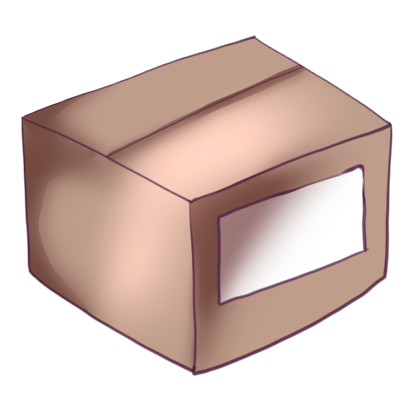
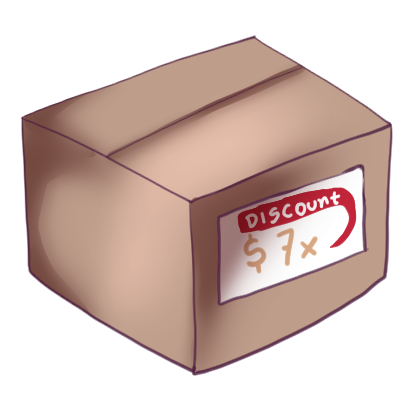
Pequenos Ajustes

Changed region(s): [[0.57, 0.45, 0.9, 0.69], [0.36, 0.27, 0.66, 0.51], [0.33, 0.6, 0.36, 0.66]]

diff --git a/scripts/estatuas/index.html b/scripts/estatuas/index.html
@@ -18,11 +18,11 @@
     <span class="close-btn" onclick="closeModal()">×</span>
 
     <div class="container" id="container">
-      <div class="item" draggable="true" data-value="3"><img src="/assets/img/statue1.png" alt=""></div>
-      <div class="item" draggable="true" data-value="1"><img src="/assets/img/statue2.png" alt=""></div>
+      <div class="item" draggable="true" data-value="5"><img src="/assets/img/statue1.png" alt=""></div>
+      <div class="item" draggable="true" data-value="3"><img src="/assets/img/statue2.png" alt=""></div>
       <div class="item" draggable="true" data-value="4"><img src="/assets/img/statue3.png" alt=""></div>
-      <div class="item" draggable="true" data-value="2"><img src="/assets/img/statue4.png" alt=""></div>
-      <div class="item" draggable="true" data-value="5"><img src="/assets/img/statue5.png" alt=""></div>
+      <div class="item" draggable="true" data-value="1"><img src="/assets/img/statue4.png" alt=""></div>
+      <div class="item" draggable="true" data-value="2"><img src="/assets/img/statue5.png" alt=""></div>
     </div>
 
   </div>

diff --git a/Cenarios/market/index.html b/Cenarios/market/index.html
@@ -4,6 +4,7 @@
         <meta charset="UTF-8">
         <meta name="viewport" content="width=device-width, initial-scale=1.0">
         <title>Document</title>
+        <link rel="stylesheet" href="/core/global.css">
         <link rel="stylesheet" href="/core/menu_interativo/style.css">
         <link rel="stylesheet" href="style.css">
     </head>

diff --git a/Cenarios/market/script.js b/Cenarios/market/script.js
@@ -33,7 +33,7 @@ function tremerBox() {
   }
 
   // intervalo aleatório entre 3 e 10 segundos
-  const proximo = Math.floor(Math.random() * 7000) + 3000;
+  const proximo = Math.floor(Math.random() * 7000) + 5000;
 
   setTimeout(tremerBox, proximo);
 }

diff --git a/Core/global.css b/Core/global.css
@@ -149,6 +149,8 @@ nav a {
   font-size: 0.98rem;
 }
 
+
+
 /* ===================== */
 /* MEDIA QUERIES GLOBAIS */
 /* ===================== */
@@ -262,3 +264,4 @@ nav a {
   white-space: nowrap;
   border: 0;
 }
+

diff --git a/Cenarios/bar/index.html b/Cenarios/bar/index.html
@@ -128,6 +128,7 @@
 </div>
 
 
+
 <script src="/loader.js"></script>    
 </body>
 </html>

diff --git a/MEMO.md b/MEMO.md
@@ -16,8 +16,8 @@ e anotar no README MAIN também.
 - Achar bebês cobras {
     1 - Invisivel (Usar Lua)
     2 - Congelado (usar Sol)
-    3 - Dentro de um Baú no shop (Clicar 7x)
-    ~~4 - Aparece no Bar aleatóriamente~~
+    3 - ~~Dentro de um Baú no shop (Clicar 7x)~~
+    4 - ~~Aparece no Bar aleatóriamente~~
     5 - Presa com Wendigo
     6 - Quest no fundo do lago
 }
@@ -51,9 +51,9 @@ e anotar no README MAIN também.
 - ~~Procurar paralax de neve.~~
 - ~~Add botão no minigame das mesas~~
 - ~~Lógica do cara de oculos sozinho no bar, itens que não contam, mas tbm não podem estar dentro da div.~~
-- Lua e Sol devem ficar abaixo dos overlay
+- ~~Lua e Sol devem ficar abaixo dos overlay~~
+-~~Queria isolar as falas em um arquivo só de fala~~
 - Fazer um container bonitinho pro sol e lua.
-- Queria isolar as falas em um arquivo só de fala
 
 
 

diff --git a/TODO.md b/TODO.md
@@ -10,11 +10,11 @@
 
 Minigames
 
-- [x] Cadeado
-- [x] Wendigo Fight
+- [] Cadeado
+- [] Wendigo Fight
 - [] Servir mesas
 - [] Ordem das Estátuas
-- [x] Dropmoon Fight
+- [] Dropmoon Fight
 - [] Pescaria
 - [] Make you own
 - [] Lily Flower
